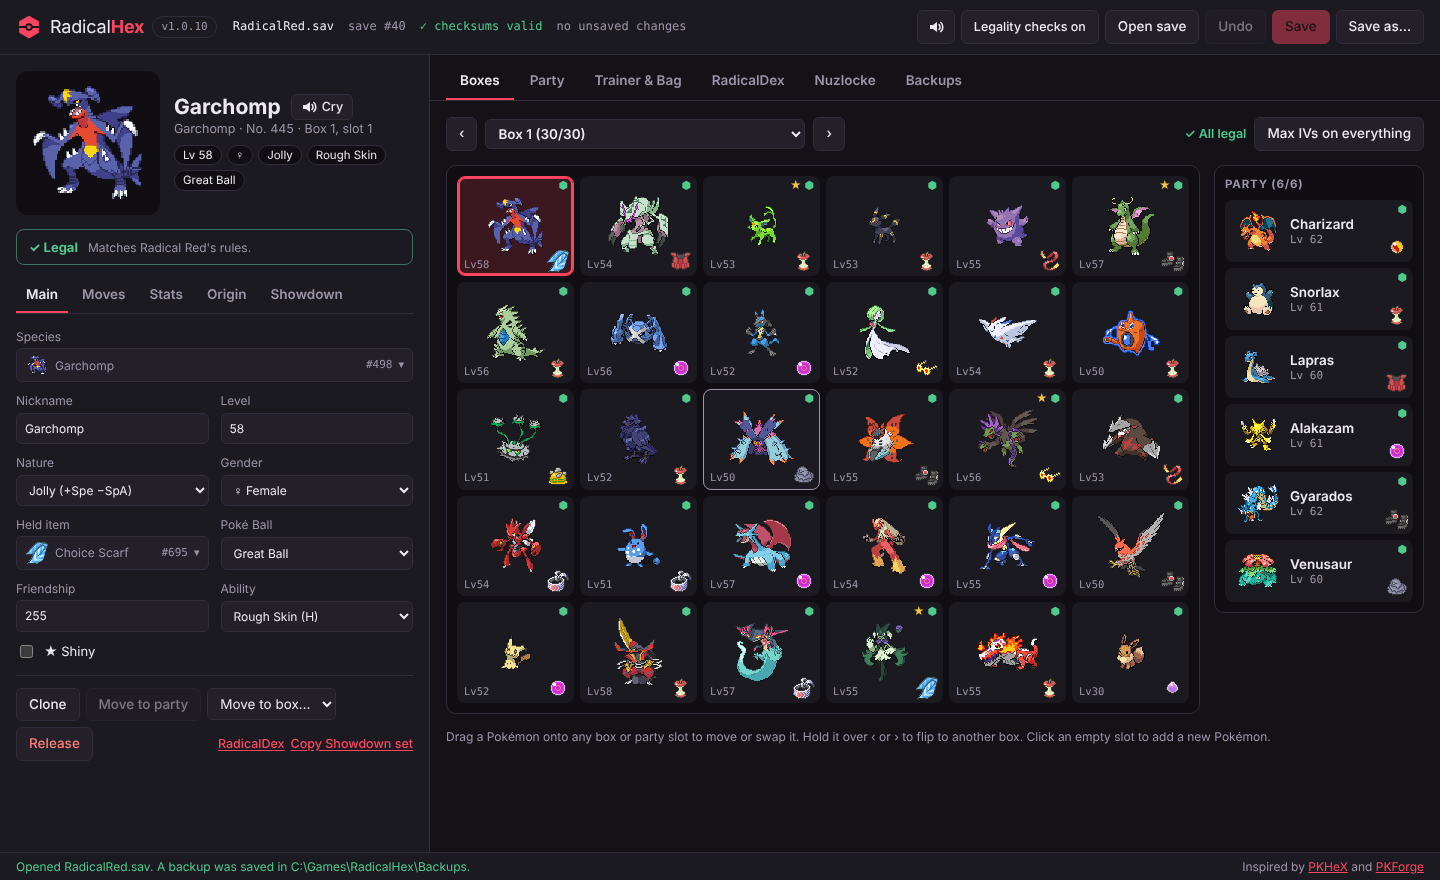
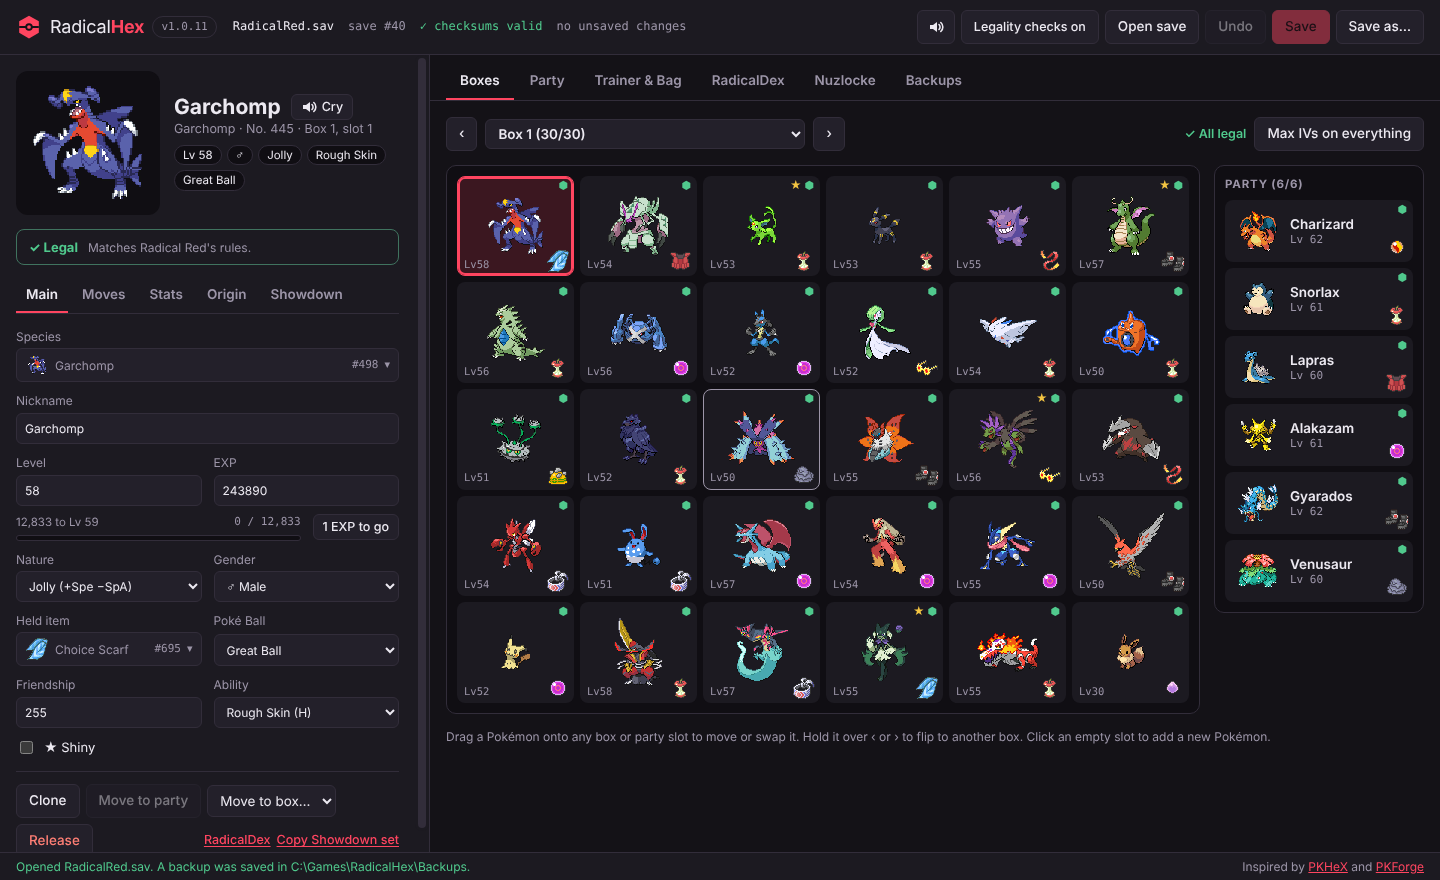
v1.0.11: exact EXP
- EXP box next to Level, like PKHeX: type an exact EXP and the level follows (a party Pokémon's stored level and battle stats too). Kept between 0 and the level 100 amount
- A game-style EXP bar under it shows how far into the level it is and how much is left to the next one; "1 EXP to go" sets it one point before the next level
- Setting the level still puts EXP at the start of that level
- Nickname now takes the full row so Level and EXP sit together

diff --git a/src/app.js b/src/app.js
@@ -501,11 +501,12 @@
         const v = e.target.value.trim() || C.defaultNickname(D, sp);
         if (!C.encodeText(v, 10)) { e.target.classList.add('bad'); status('That nickname uses a character the game cannot show.', 'err'); return; }
         edit(r, 'Renamed to ' + v, () => M.setNickname(r, v), { full: true });
-      } })),
+      } }), ' wide'),
       field(lv ? 'Level' : 'Level (no data for this species)', h('input', { id: 'ed-level', type: 'number', min: 1, max: 100, value: lv || '', disabled: !lv, onchange: e => {
         const L = Math.max(1, Math.min(100, Math.round(+e.target.value) || 1));
         edit(r, 'Set level ' + L, () => C.setLevel(D, r, L), { full: true });
       } })),
+      expField(r),
       field('Nature', h('select', { id: 'ed-nature', onchange: e => edit(r, 'Set nature ' + C.NATURES[+e.target.value], () => C.setNatureShiny(r, +e.target.value, M.shiny(r), D), { full: true }) }, natureOptions(M.nature(r)))),
       field('Gender', h('select', { id: 'ed-gender', disabled: fixedGender, onchange: e => edit(r, 'Set gender', () => C.setGender(D, r, +e.target.value), { full: true }) },
         fixedGender ? h('option', {}, genderText(g)) : [0, 1].map(v => h('option', { value: v, selected: v === g }, genderText(v))))),
@@ -534,6 +535,27 @@
   const moveNote = sp => (hax ? 'RadicalHaX mode: every move is listed.'
     : X.species[sp] ? `Only moves ${spName(sp)} can learn in Radical Red are listed (level-up, TM, tutor, egg and pre-evolution moves). Turn on RadicalHaX mode for any move.`
       : `There is no Radical Red move data for ${spName(sp)}, so every move is listed.`);
+  // Exact EXP (like PKHeX): the level follows it. Under Level and EXP, an EXP bar like the game's summary screen,
+  // with what's left to the next level and a one-click "edge" (1 EXP before the next level).
+  function expField(r) {
+    const t = C.growth(D, M.species(r)), exp = M.exp(r);
+    if (!t) return field('EXP (no data for this species)', h('input', { id: 'ed-exp', type: 'number', value: exp, disabled: true }));
+    const L = C.levelOf(D, r), next = L < 100 ? t[L + 1] : null;
+    const pct = next ? Math.floor((exp - t[L]) / (next - t[L]) * 100) : 100;
+    const box = numBox('ed-exp', exp, 0, t[100], 'Experience points', (v, capped) => {
+      edit(r, `Set EXP to ${v.toLocaleString()}`, () => C.setExp(D, r, v), { full: true });
+      if (capped) status(`EXP is ${v.toLocaleString()}, the most a Pokémon can have (level 100).`);
+    });
+    return [field('EXP', box),
+      h('div', { class: 'exp-row' },
+        h('div', { class: 'exp-meter', title: next ? `Level ${L}: ${t[L].toLocaleString()}–${(next - 1).toLocaleString()} EXP` : 'Level 100' },
+          h('span', { class: 'exp-text' }, h('span', {}, next ? `${(next - exp).toLocaleString()} to Lv ${L + 1}` : 'Max level'),
+            h('span', { class: 'mono' }, next ? `${(exp - t[L]).toLocaleString()} / ${(next - t[L]).toLocaleString()}` : t[100].toLocaleString())),
+          h('span', { class: 'expbar' }, h('span', { style: `width:${pct}%` }))),
+        next ? h('button', { id: 'ed-edge', class: 'btn small', type: 'button', disabled: exp === next - 1, title: `Set EXP to ${(next - 1).toLocaleString()}, one point before level ${L + 1}`,
+          onclick: () => edit(r, `Set EXP to 1 before level ${L + 1}`, () => C.setExp(D, r, next - 1), { full: true }) }, '1 EXP to go') : null)];
+  }
+
   function movesTab(r) {
     const mv = M.moves(r), pp = M.movePp(r), sp = M.species(r);
     return [h('div', { class: 'form' }, mv.map((m, i) =>

diff --git a/test/core.test.js b/test/core.test.js
@@ -370,6 +370,28 @@ for (const file of process.argv.slice(2)) {
     assert.strictEqual(C.partyCount(back), 1);
   });
 
+  t('exact EXP: level follows, party level byte and stats stay in sync, limits hold, saves', () => {
+    const sv = fresh(), refs = [C.partyRef(sv, 0)];
+    for (let b = 0; b < C.BOXES && refs.length < 3; b++) for (let s2 = 0; s2 < C.SLOTS && refs.length < 3; s2++) if (!M.empty(C.boxRef(sv, b, s2))) refs.push(C.boxRef(sv, b, s2));
+    for (const r of refs) {
+      const g = C.growth(D, M.species(r)); if (!g) continue;
+      const keep = [M.pid(r), M.ivWord(r), M.moves(r).join(), M.species(r)].join('|');
+      for (const L of [1, 15, 50, 99]) {
+        assert.ok(C.setExp(D, r, g[L + 1] - 1)); if (r.party) C.recalcStats(D, X, r);
+        assert.strictEqual(C.levelOf(D, r), L, `1 EXP before ${L + 1} is still level ${L}`);
+        if (r.party) { assert.strictEqual(M.level(r), L); assert.ok(!C.legality(D, X, r).some(p => /doesn't match|out of date/.test(p.text))); }
+        C.setExp(D, r, g[L + 1]); if (r.party) C.recalcStats(D, X, r);
+        assert.strictEqual(C.levelOf(D, r), L + 1);
+      }
+      C.setExp(D, r, g[100] + 1000); assert.strictEqual(M.exp(r), g[100]);
+      C.setExp(D, r, -5); assert.strictEqual(M.exp(r), 0); assert.strictEqual(C.levelOf(D, r), 1);
+      C.setExp(D, r, g[37] + 123); if (r.party) C.recalcStats(D, X, r);
+      assert.strictEqual([M.pid(r), M.ivWord(r), M.moves(r).join(), M.species(r)].join('|'), keep, 'nothing else changes');
+    }
+    const back = C.load(C.build(sv, D));
+    for (const r of [C.partyRef(back, 0)]) { const g = C.growth(D, M.species(r)); if (g) { assert.strictEqual(M.exp(r), g[37] + 123); assert.strictEqual(M.level(r), 37); } }
+  });
+
   t('every species marked addable has data and a valid nickname', () => {
     for (let i = 1; i < D.species.length; i++) {
       const s = D.species[i]; if (!s.n || !s.g) continue;

diff --git a/src/style.css b/src/style.css
@@ -3,7 +3,7 @@
 :root {
   --bg: #f2f1f4; --panel: #ffffff; --raised: #f7f6f9; --sunk: #e9e7ee; --fg: #1d1a22; --muted: #6b6574;
   --line: #dcd8e2; --accent: #d01c37; --accent-fg: #ffffff; --accent-soft: #fbe2e6;
-  --good: #16794a; --warn: #9a5c00; --bad: #b3261e; --star: #c98a00;
+  --good: #16794a; --warn: #9a5c00; --bad: #b3261e; --star: #c98a00; --exp: #2f7fd8;
   --ui: "Segoe UI Variable Text", "Segoe UI", system-ui, sans-serif;
   --display: "Segoe UI Variable Display", "Segoe UI", system-ui, sans-serif;
   --mono: "Cascadia Mono", "Cascadia Code", Consolas, ui-monospace, monospace;
@@ -13,7 +13,7 @@
   :root {
     --bg: #141217; --panel: #1c1a21; --raised: #23202a; --sunk: #100e13; --fg: #ece9f1; --muted: #9c95a8;
     --line: #322d3a; --accent: #ff4560; --accent-fg: #1b0408; --accent-soft: #3b1720;
-    --good: #50c98d; --warn: #e6a640; --bad: #ff7f75; --star: #f4c542; color-scheme: dark;
+    --good: #50c98d; --warn: #e6a640; --bad: #ff7f75; --star: #f4c542; --exp: #4fa3ff; color-scheme: dark;
   }
 }
 * { box-sizing: border-box; }
@@ -356,3 +356,9 @@ body.hax-on .top { box-shadow: inset 0 -2px 0 #7b2cbf; }
 
 .backups th.x, .backups td.x { width: 32px; }
 .backups tr.picked td { background: var(--accent-soft); }
+.exp-row { grid-column: 1 / -1; display: flex; align-items: center; gap: 12px; margin-top: -2px; }
+.exp-meter { flex: 1; min-width: 0; display: grid; gap: 4px; }
+.exp-text { display: flex; justify-content: space-between; gap: 8px; font-size: 11.5px; color: var(--muted); }
+.exp-text .mono { font-family: var(--mono); font-size: 11px; }
+.expbar { display: block; height: 6px; background: var(--sunk); border-radius: 3px; overflow: hidden; box-shadow: inset 0 0 0 1px var(--line); }
+.expbar > span { display: block; height: 100%; background: var(--exp); border-radius: 3px; transition: width .25s ease; }

diff --git a/src/core.js b/src/core.js
@@ -401,6 +401,14 @@
     if (m.party) m.buf[m.off + 0x54] = L;
     return true;
   }
+  // Exact EXP, kept between 0 and the level 100 amount. The level follows from it (a party Pokémon's stored level too).
+  function setExp(D, m, e) {
+    const t = growth(D, mon.species(m));
+    if (!t) return false;
+    mon.setExp(m, Math.max(0, Math.min(t[100], Math.floor(e) || 0)));
+    if (m.party) m.buf[m.off + 0x54] = expLevel(D, m);
+    return true;
+  }
   // Gender: 0 male, 1 female, 2 genderless. Threshold 0 = male only, 254 = female only, 255 = genderless.
   const genderRatio = (D, sp) => (D.species[sp] && D.species[sp].gr !== undefined ? D.species[sp].gr : 127);
   function genderOf(D, m) {
@@ -802,7 +810,7 @@
   const api = {
     WIN, BOXES, SLOTS, POCKETS, BALLS, NATURES, STATS, MONEY_MAX, COINS_MAX, natureEffect,
     load, serialize, build, checksum, allowedRanges,
-    partyCount, partyRef, boxRef, boxName, mon, levelOf, setLevel, growth, genderOf, genderRatio, defaultNickname,
+    partyCount, partyRef, boxRef, boxName, mon, levelOf, setLevel, setExp, growth, genderOf, genderRatio, defaultNickname,
     solvePid, setNatureShiny, setGender, setOtIds, makeMine, abilityName, setAbility, trainer, setMoney, setCoins, readPocket, writePocket, pocketOf,
     dex, registerOwned, NATIONAL_DEX, createInBox, release, swap, copyToBox, withdraw, deposit, createInParty, moveMon, toShowdown, fromShowdown, heal, partyStatus, STATUS,
     calcStats, recalcStats, legality, isIllegal, expLevel, EV_CAP, EV_TOTAL, clampEvs,

diff --git a/README.md b/README.md
@@ -44,7 +44,8 @@ Every release also includes the full source code (zip and tar.gz), so anyone can
 - Edit them like any other Pokémon, or copy them into a box. Their battle stats update automatically when you change level, nature, IVs or EVs
 
 ### Editing a Pokémon
-- Species, nickname, level, nature, gender, shininess, held item, Poké Ball, friendship, ability, all four moves (including Radical Red's Gen 9 moves), IVs and EVs
+- Species, nickname, level, exact EXP, nature, gender, shininess, held item, Poké Ball, friendship, ability, all four moves (including Radical Red's Gen 9 moves), IVs and EVs
+- **EXP** like PKHeX: type an exact EXP and the level follows it. The editor shows the EXP range of the current level and how much is left to the next one, and **1 EXP to go** sets it right at the edge. An EXP bar like the game's summary screen shows how far into the level it is
 - **Ability** is a dropdown like PKHeX's, listing the species' own abilities by name: ability 1, ability 2 (if it has one) and its hidden ability (H). Changing it keeps the nature, shininess and gender, like the game does when it changes an ability
 - **Origin** (like PKHeX): original trainer name, gender, trainer ID and secret ID, met location and met level, plus **Make it mine** to give it your trainer details. Changing the IDs keeps it shiny or not shiny. The met location list puts the places where that Pokémon's evolution family is found in Radical Red first. With legality checks on, the met level can't go above its level and the OT needs a name. RadicalHaX mode allows any location number and met level
 - **Moves** list only what the species can learn in Radical Red (level-up, TM, tutor, egg and pre-evolution moves), and not moves it already knows. In RadicalHaX mode every move is listed
